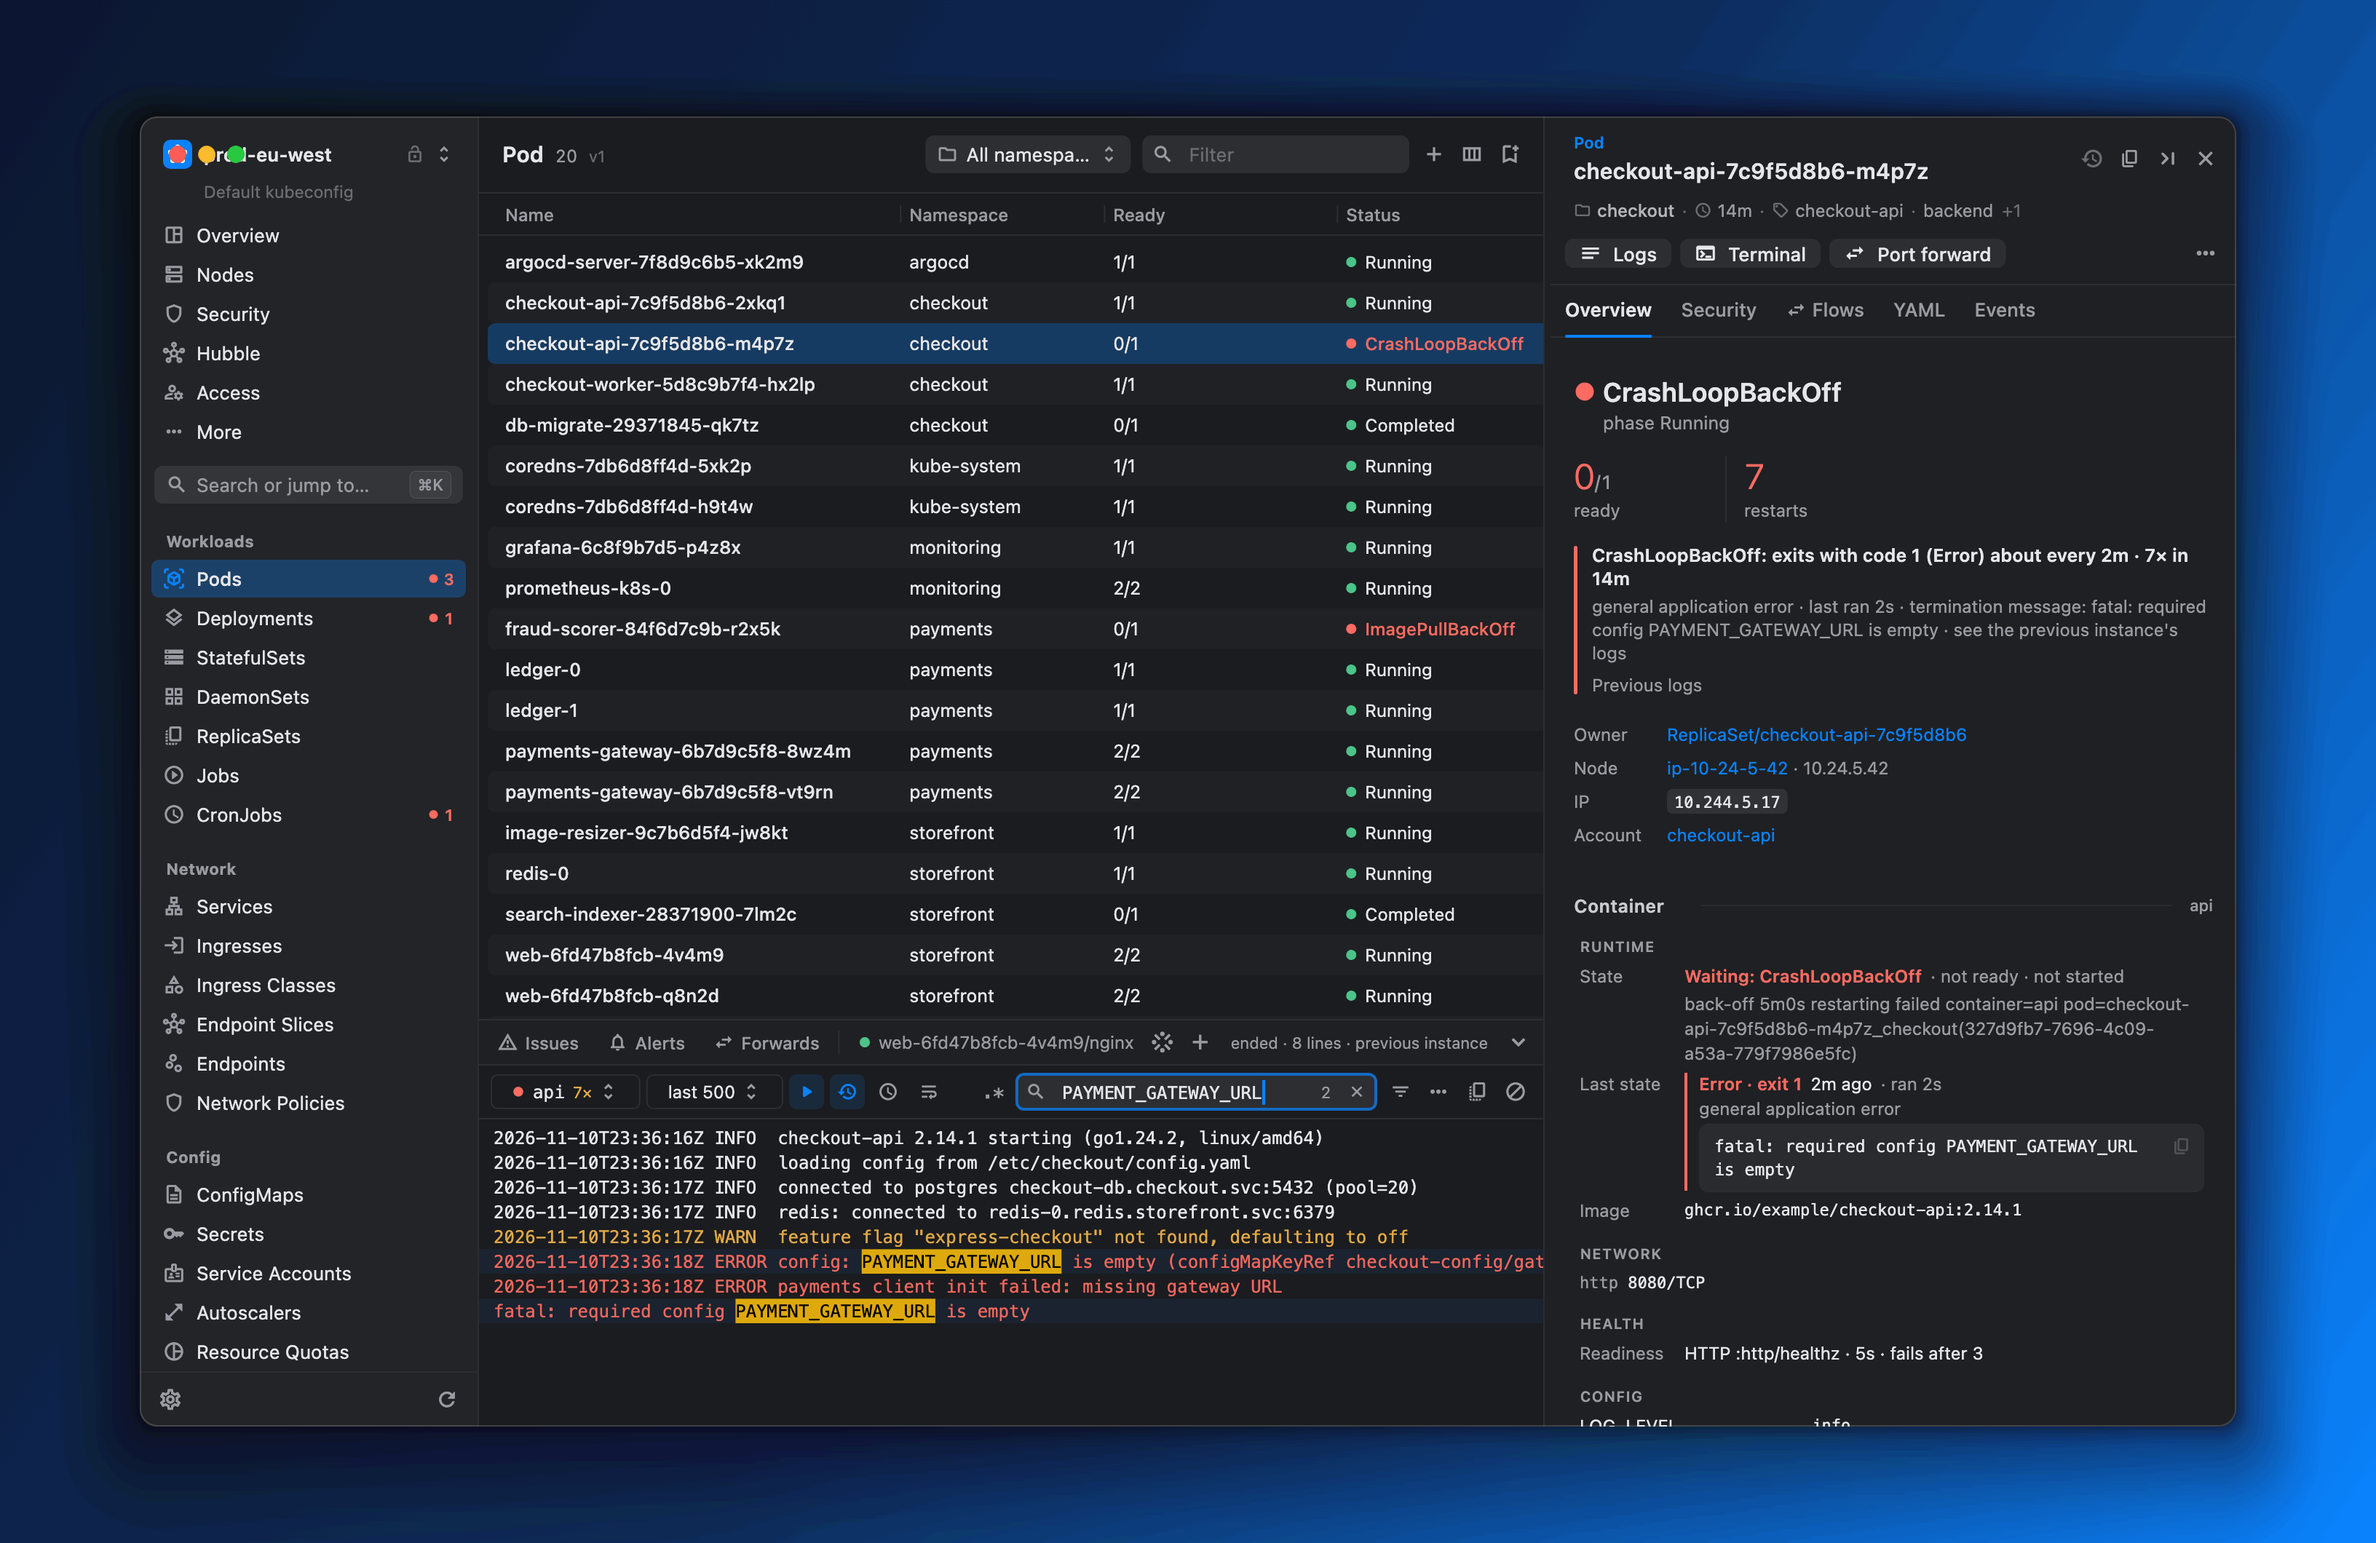
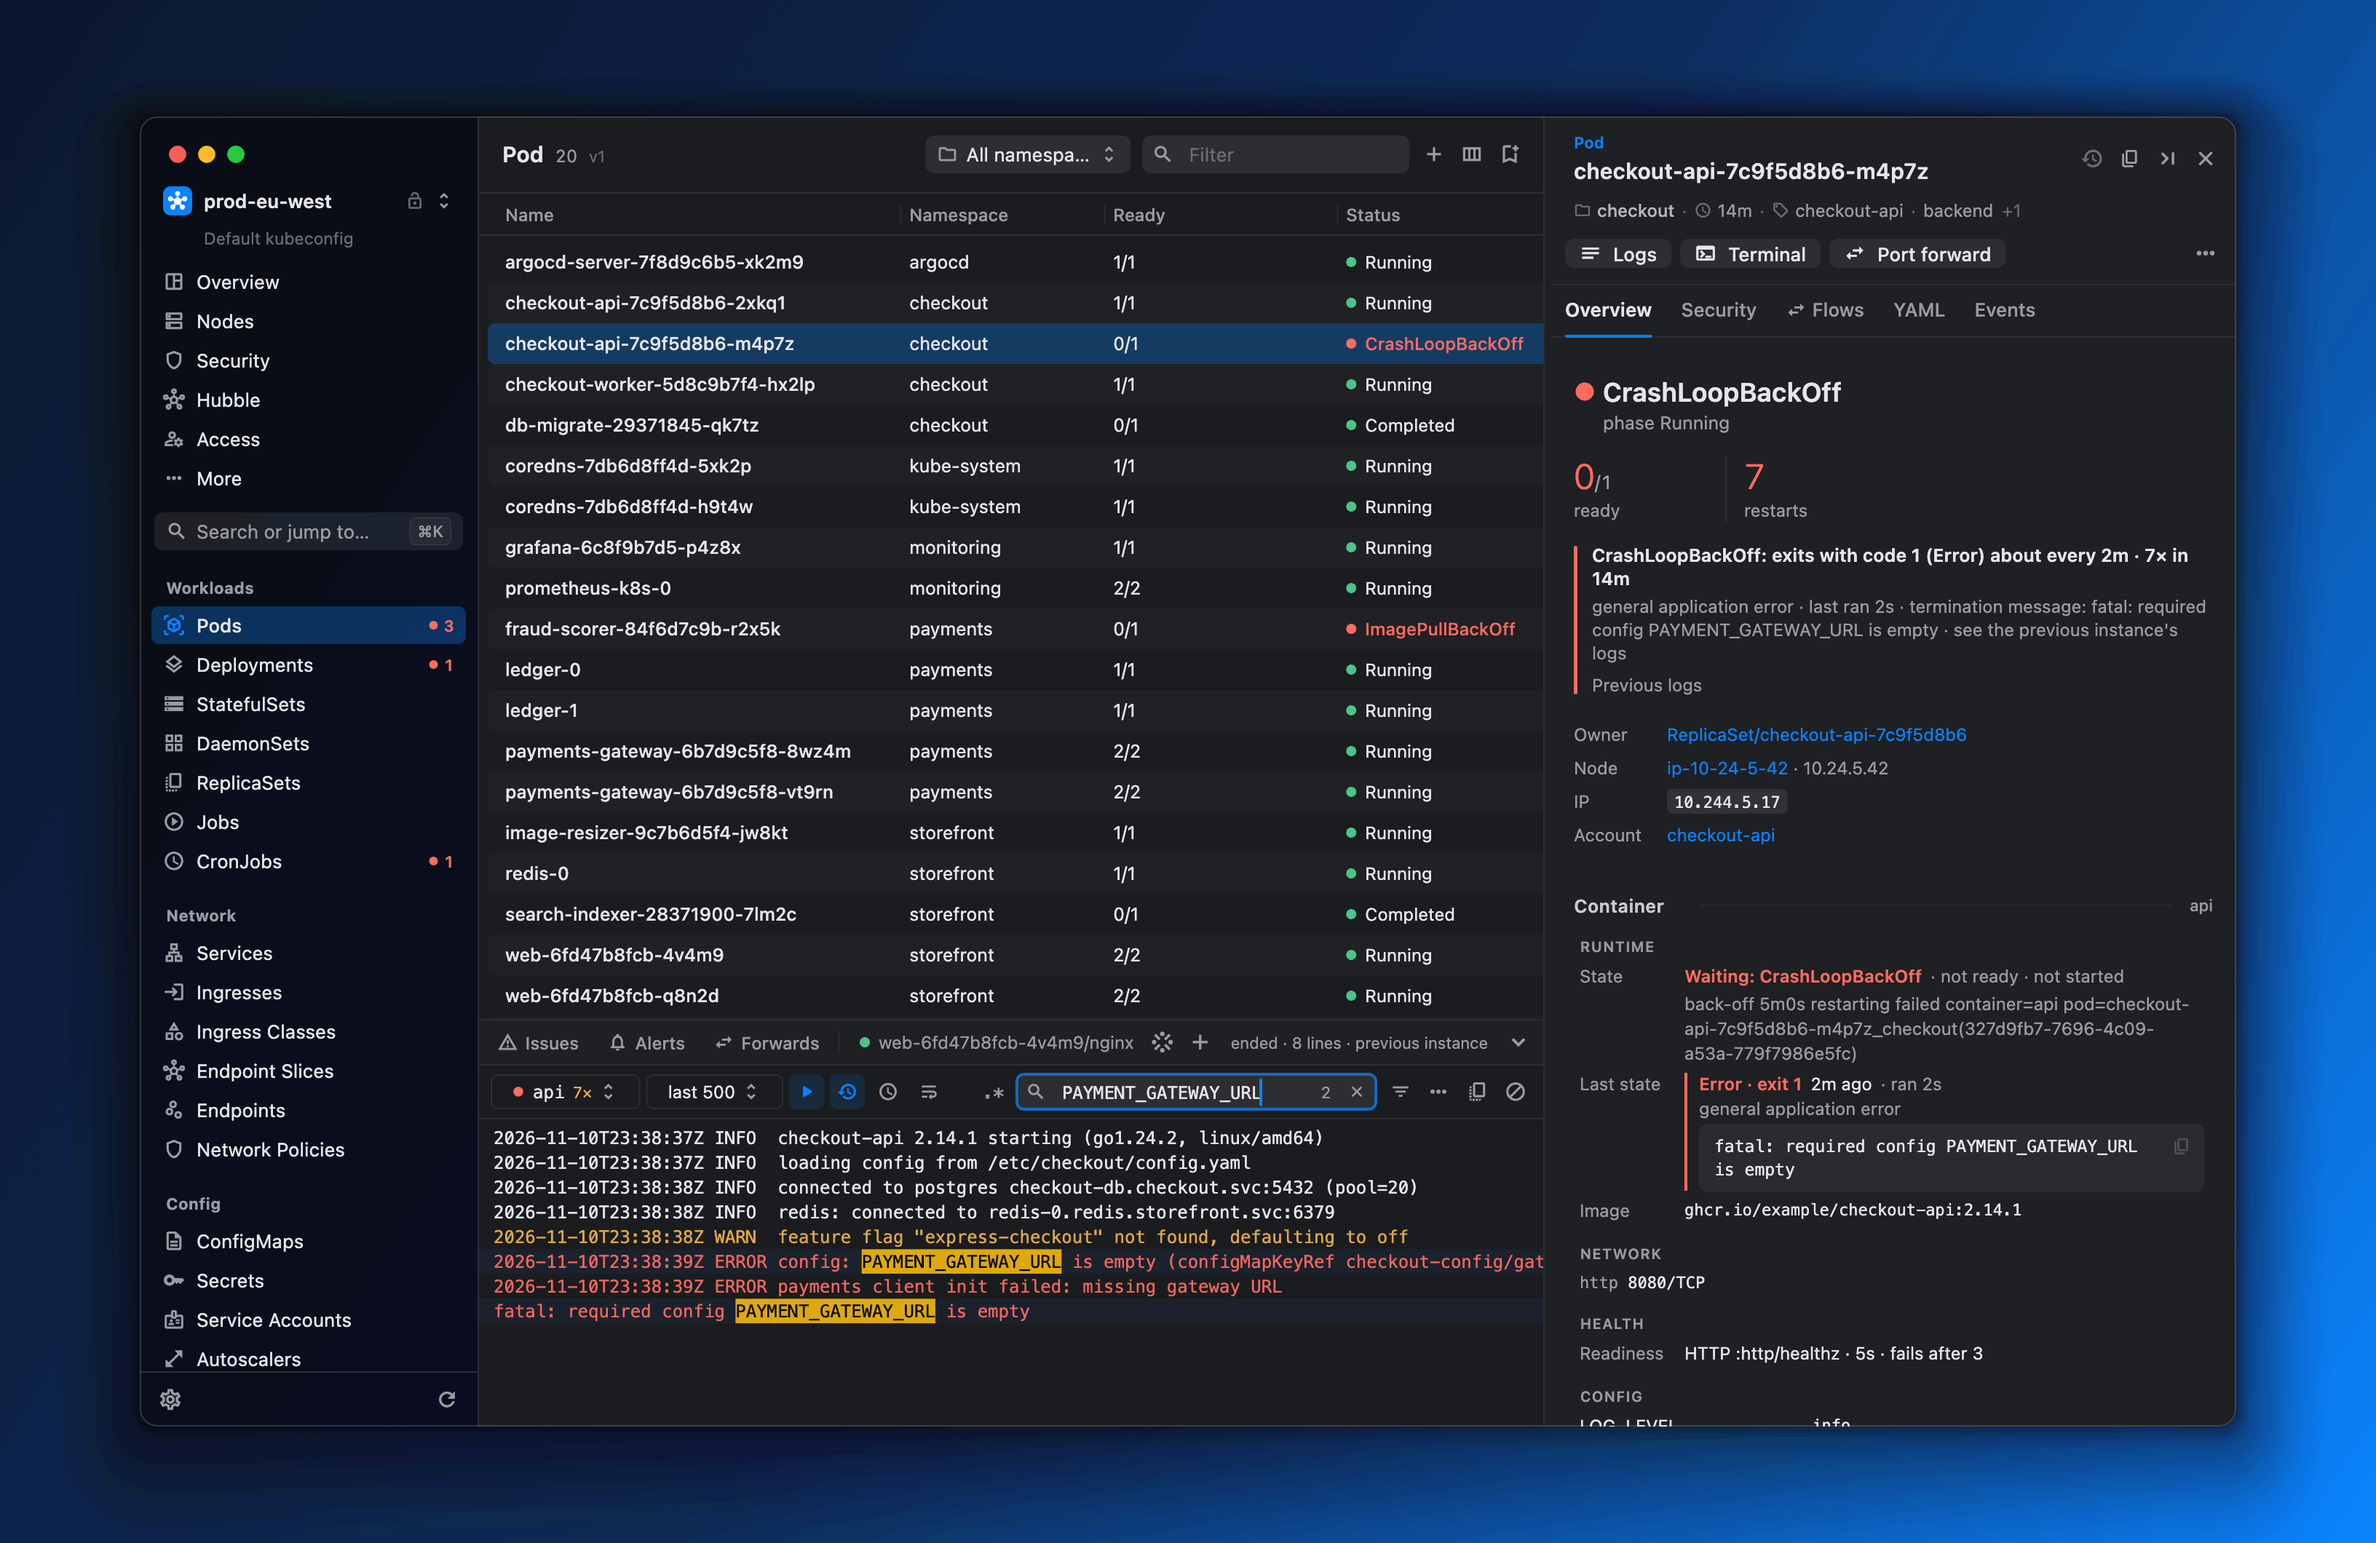
Screenshots: render with macOS chrome so the traffic lights no longer cover the context name; all shots re-rendered

Changed region(s): [[0.0625, 0.0623, 0.2188, 0.934]]

diff --git a/frontend/test/marketing/marketing_shots_test.dart b/frontend/test/marketing/marketing_shots_test.dart
@@ -14,6 +14,7 @@ import 'dart:convert';
 import 'dart:io';
 import 'dart:ui' as ui;
 
+import 'package:flutter/foundation.dart';
 import 'package:flutter/material.dart';
 import 'package:flutter/rendering.dart';
 import 'package:flutter/services.dart';
@@ -1061,7 +1062,14 @@ Future<void> capture(WidgetTester tester, String name) async {
 void shot(String name, Future<void> Function(WidgetTester tester) body) {
   testWidgets(name, (tester) async {
     await loadRealFonts();
-    await http.runWithClient(() => body(tester), () => MockClient(restHandler));
+    // The app's macOS chrome: the sidebar leaves room for the frame's
+    // traffic lights instead of drawing the context picker under them.
+    debugDefaultTargetPlatformOverride = TargetPlatform.macOS;
+    try {
+      await http.runWithClient(() => body(tester), () => MockClient(restHandler));
+    } finally {
+      debugDefaultTargetPlatformOverride = null;
+    }
     if (unhandled.isNotEmpty) {
       // ignore: avoid_print
       print('unhandled in $name:\n  ${unhandled.join('\n  ')}');
